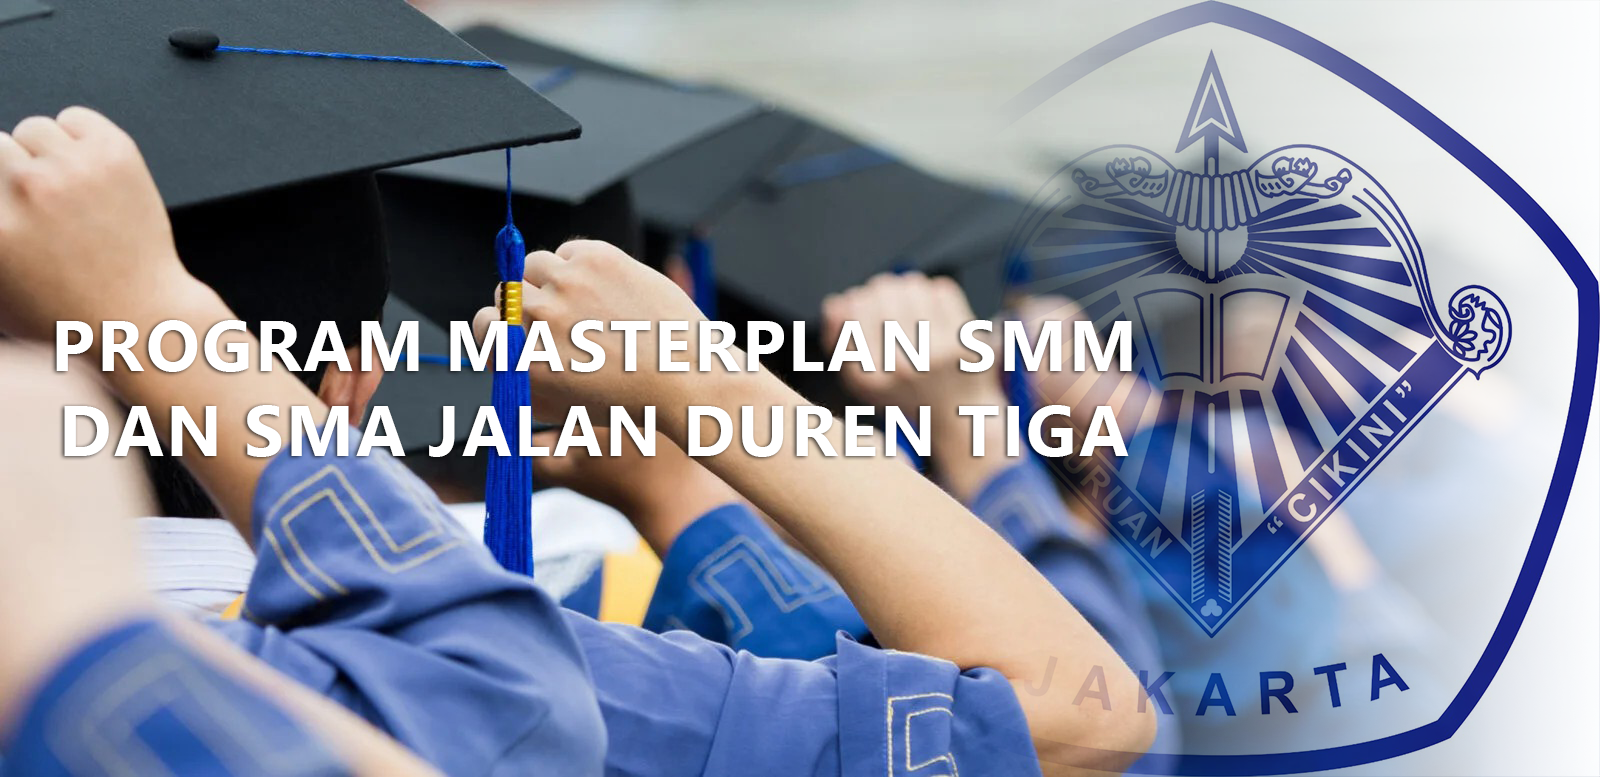
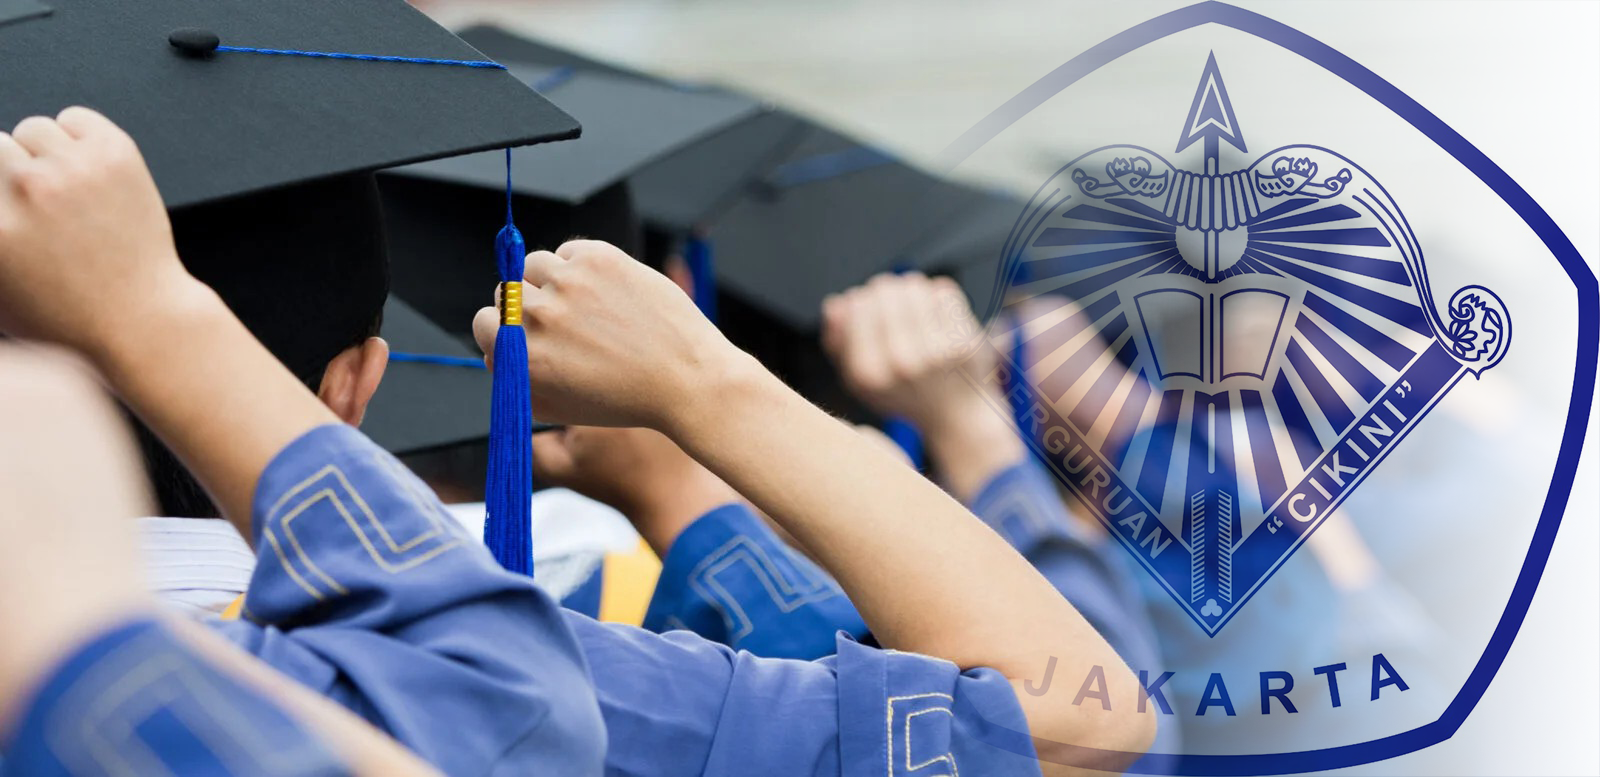
syahdan rapihin page

Changed region(s): [[0.0312, 0.4015, 0.7188, 0.5869]]

diff --git a/src/components/Project/ProjectStyle.css b/src/components/Project/ProjectStyle.css
@@ -56,14 +56,14 @@
 
   .overlay-text-tittle {
     position: absolute;
-    bottom: 140px;
+    bottom: 80px;
     color: white;
     font-family: "Segoe UI";
-    font-size: 14px;
+    font-size: 20px;
     font-style: normal;
     font-weight: 700;
     line-height: normal;
-    max-width: 230px;
+    max-width: 250px;
     text-align: center;
   }
   .overlay-text-desc {
@@ -78,22 +78,32 @@
     font-style: normal;
     font-weight: 400;
     line-height: normal;
+    display: none;
   }
 
   .link-layout {
-    width: 704px;
-    height: 189px;
+    width: 150px;
+    border-radius: 15px;
     position: absolute;
-    right: 23px;
-    bottom: -160px;
+    display: flex;
+    justify-content: center;
+    left: 85px;
+    bottom: 30px;
+    padding-top: 2px;
+    padding-bottom: 2px;
     color: white;
     text-align: right;
     font-family: "Segoe UI";
-    font-size: 8px;
+    font-size: 10px;
     font-style: normal;
     font-weight: 400;
     line-height: normal;
+    background-color: #09588d;
   }
+}
+
+.link-layout p {
+  margin-top: 8px;
 }
 
 /* Untuk Tablet */
@@ -243,7 +253,7 @@
 
   .overlay-text-tittle {
     position: absolute;
-    right: 73px;
+    right: 65px;
     bottom: 226px;
     color: white;
     font-family: "Segoe UI";
@@ -254,7 +264,7 @@
     max-width: 690px;
   }
   .overlay-text-desc {
-    width: 704px;
+    width: 679px;
     height: 189px;
     position: absolute;
     right: 73px;

diff --git a/src/components/Project/Project.jsx b/src/components/Project/Project.jsx
@@ -49,7 +49,7 @@ const Project = () => {
             <img src={require(`../../assets/img/project/${item.urlImage}`)} alt="img" />
             <div className="overlay-layout">
               <p className="overlay-text-tittle">{item.tittleProyek}</p>
-              <p className="overlay-text-desc">{item.deskripsiProyek.length > 400 ? `${item.deskripsiProyek.slice(0, 400)}...` : item.deskripsiProyek}</p>
+              <p className="overlay-text-desc">{item.deskripsiProyek.length > 350 ? `${item.deskripsiProyek.slice(0, 350)}...` : item.deskripsiProyek}</p>
             </div>
             <Link key={item.id} to={`/project-detail?id=${item.id}&tittle=${item.tittleProyek}&desc=${item.deskripsiProyek}&img=${item.urlImage}`} className="link-layout">
               <p>{globalState.globalProperty === "IND" ? "Selengkapnya..." : "More..."}</p>
